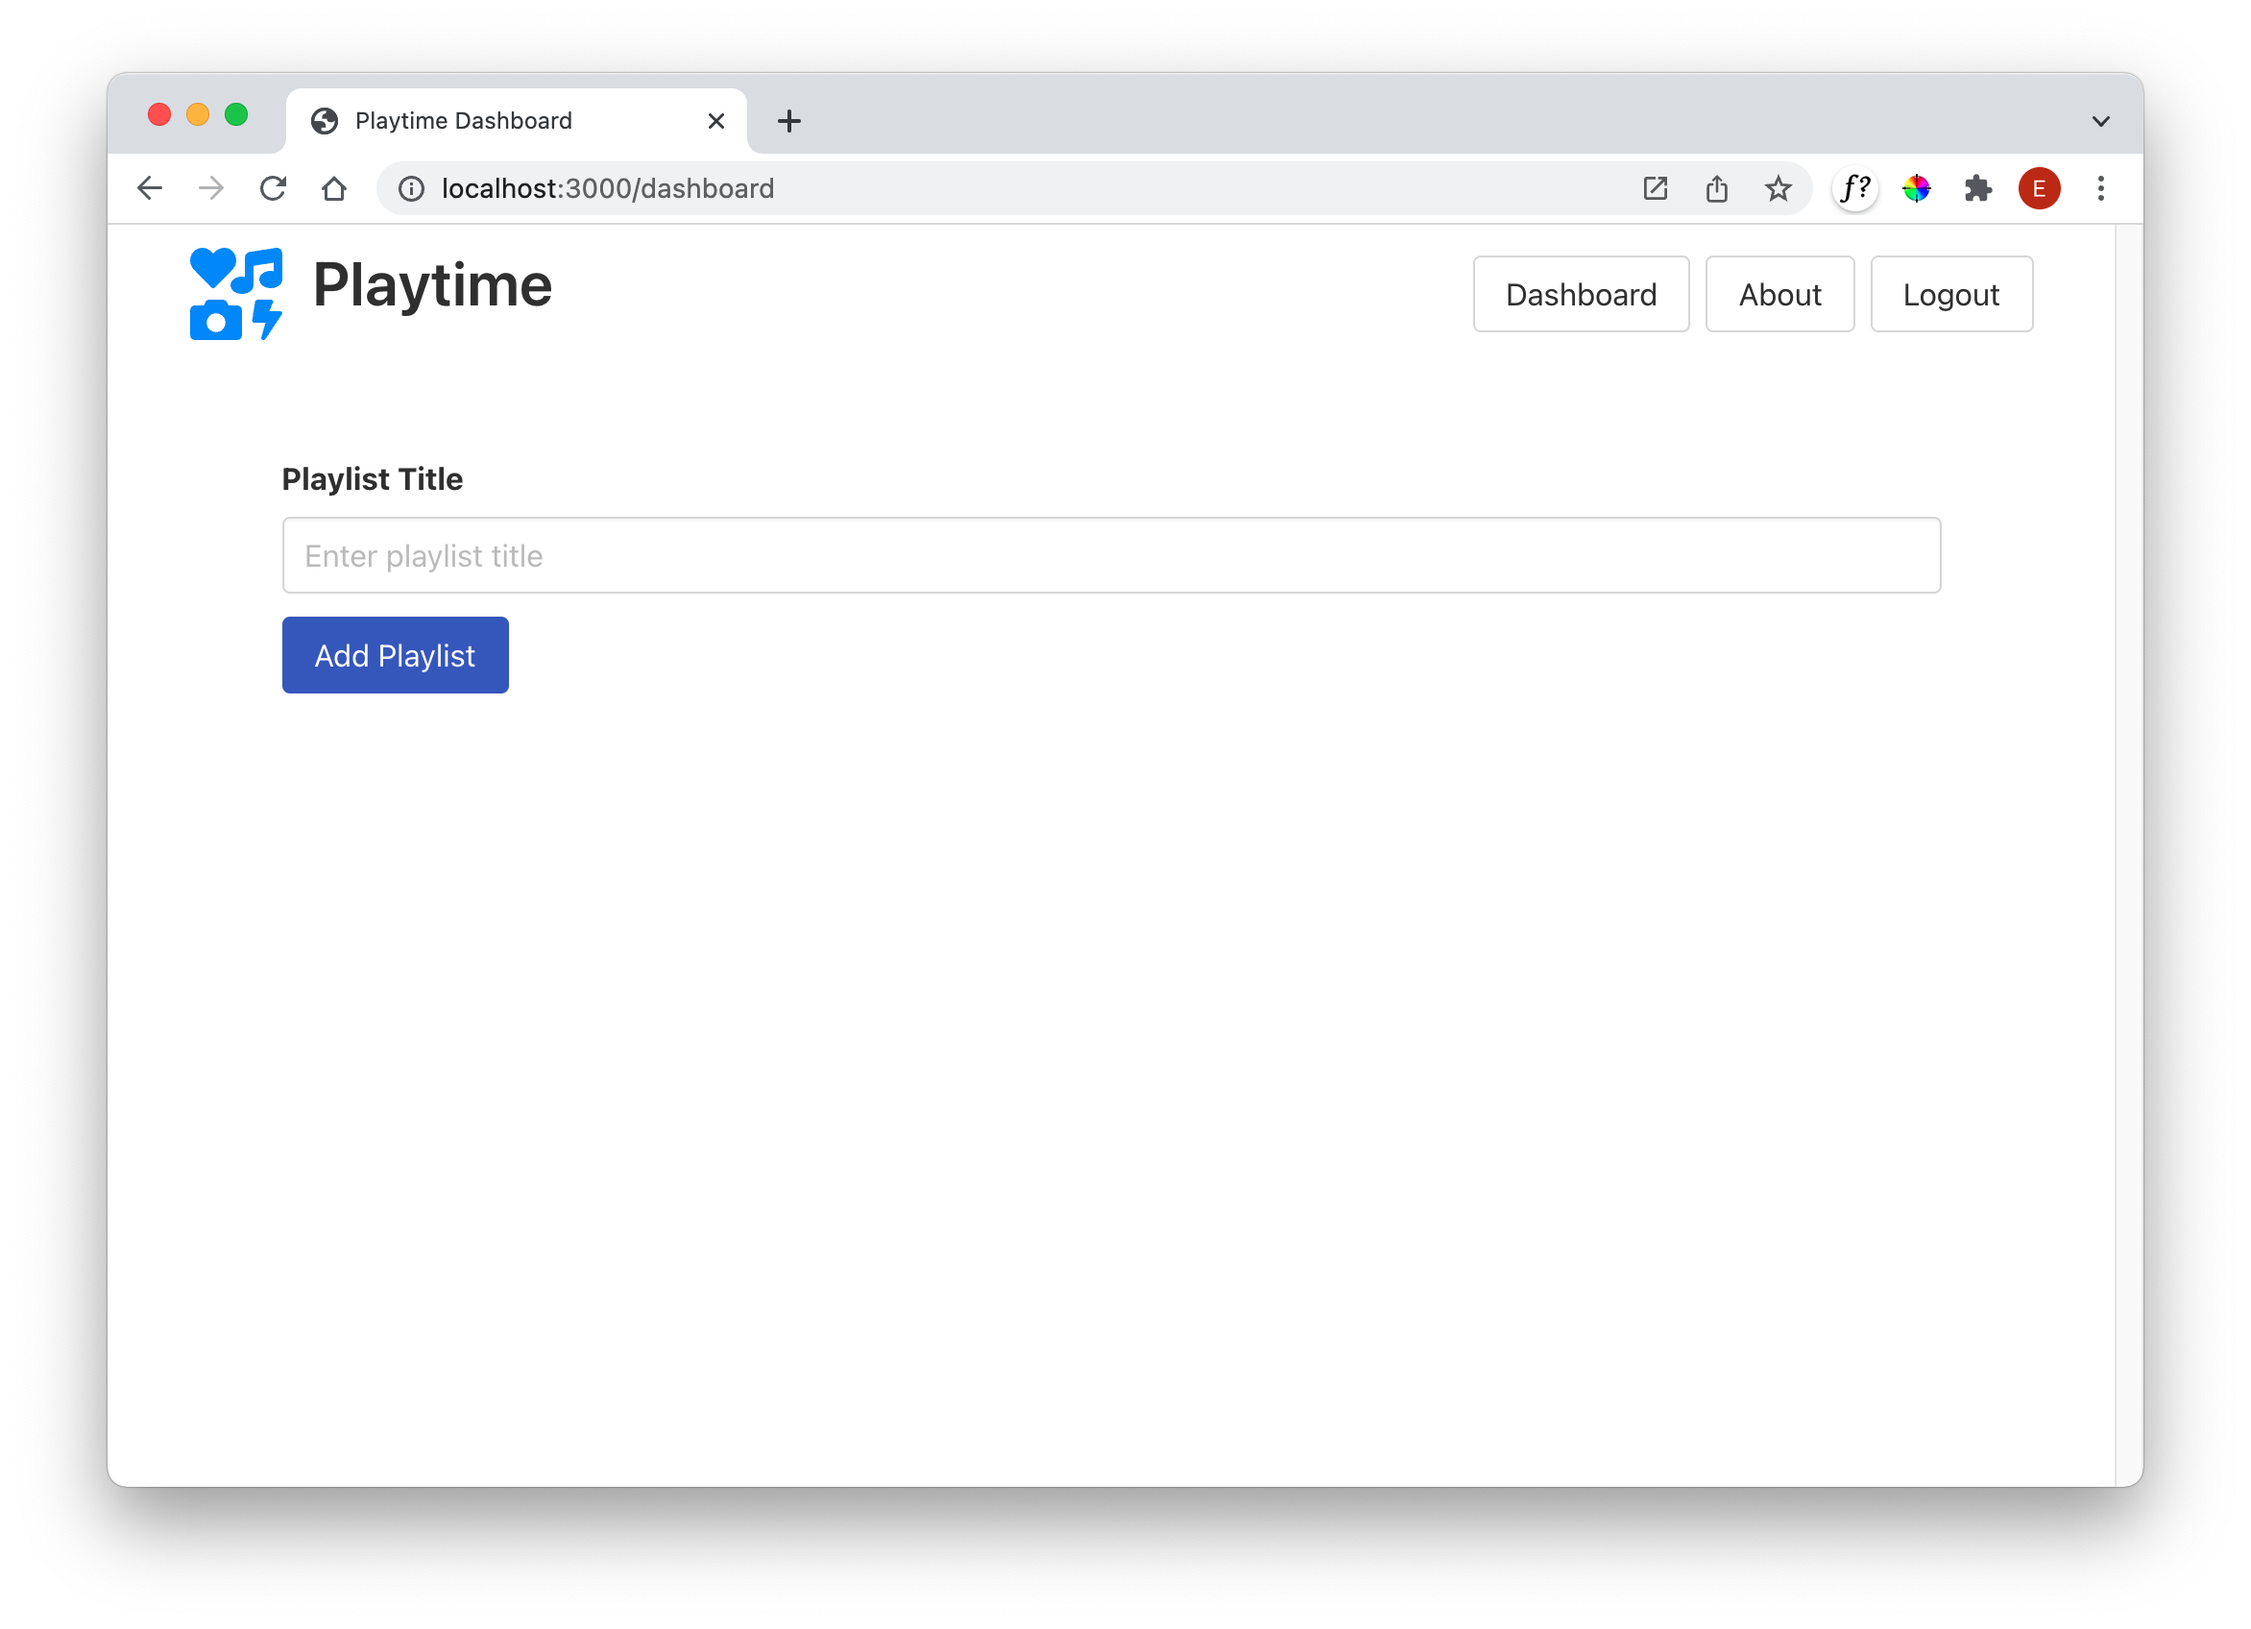
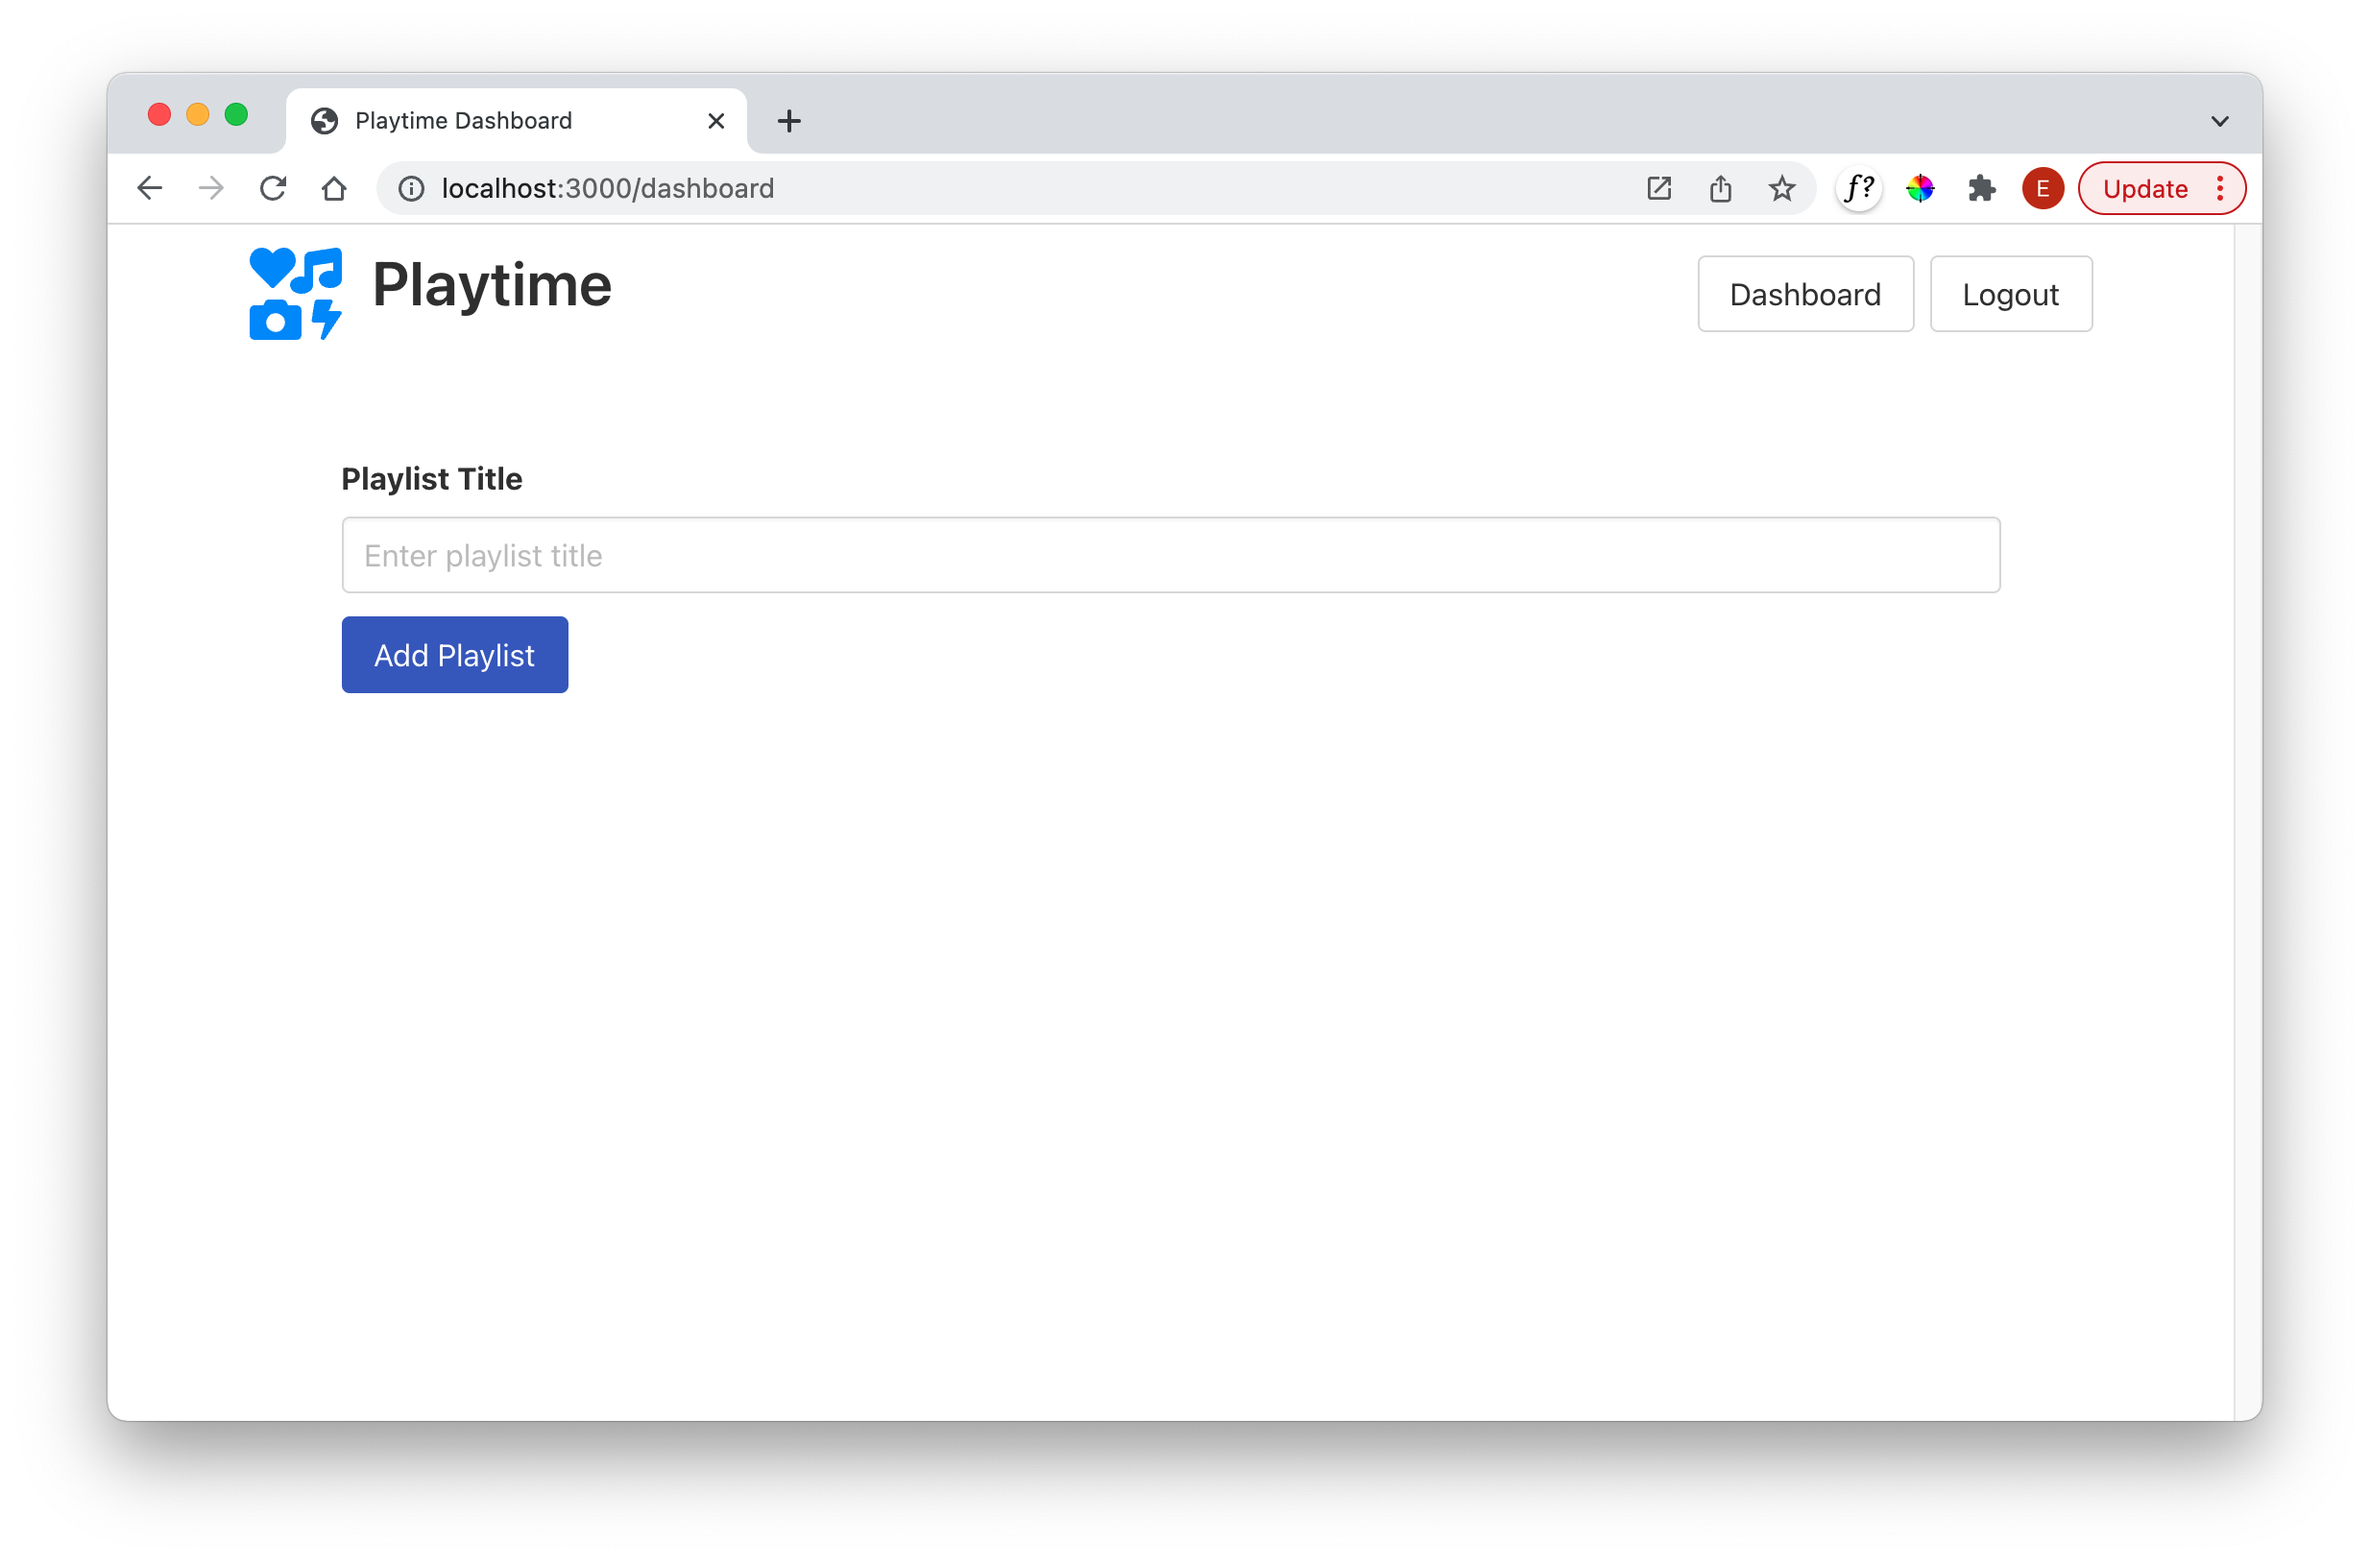
playtime-0.2.0 updated for 2023

Changed region(s): [[0.0311, 0.0307, 0.9654, 0.9214], [0.1246, 0.2764, 0.2491, 0.4607]]

diff --git a/topic-labs/book-playtime-0-1-0/08.08.md b/topic-labs/book-playtime-0-1-0/08.08.md
@@ -38,8 +38,8 @@ Include the partials below in this structure:
     <div class="navbar-end">
       <div class="navbar-item">
         <div class="buttons">
-          <a id="dashboard" class="button" href="/dashboard"> Dashboard </a> <a id="about" class="button" href="/about"> About </a> <a id="logout" class="button" href="/logout">
-          Logout </a>
+          <a id="dashboard" class="button" href="/dashboard"> Dashboard </a>
+          <a id="logout" class="button" href="/logout"> Logout </a>
         </div>
       </div>
     </div>

diff --git a/topic-labs/book-playtime-0-1-0/04.04.md b/topic-labs/book-playtime-0-1-0/04.04.md
@@ -31,7 +31,7 @@ These are the contents of each of these files:
     <meta charset="utf-8">
     <meta name="viewport" content="width=device-width, initial-scale=1">
     <title>{{title}}</title>
-    <link rel="stylesheet" href="https://cdn.jsdelivr.net/npm/bulma@0.9.3/css/bulma.min.css">
+    <link rel="stylesheet" href="https://cdn.jsdelivr.net/npm/bulma@0.9.4/css/bulma.min.css">
     <script src="https://use.fontawesome.com/releases/v5.15.4/js/all.js"></script>
   </head>
   <body>

diff --git a/topic-labs/book-playtime-0-1-0/02.02.md b/topic-labs/book-playtime-0-1-0/02.02.md
@@ -42,11 +42,11 @@ The above will install these packages to the `node_modules` folder, and extend `
   "author": "",
   "license": "ISC",
   "devDependencies": {
-    "eslint": "^8.4.1",
+    "eslint": "^8.31.0",
     "eslint-config-airbnb-base": "^15.0.0",
-    "eslint-config-prettier": "^8.3.0",
-    "eslint-plugin-import": "^2.25.3",
-    "prettier": "^2.5.1"
+    "eslint-config-prettier": "^8.6.0",
+    "eslint-plugin-import": "^2.26.0",
+    "prettier": "^2.8.2"
   }
 }
 ~~~

diff --git a/topic-labs/book-playtime-0-1-0/01.01.md b/topic-labs/book-playtime-0-1-0/01.01.md
@@ -13,7 +13,7 @@ node -v
 It may report something like this:
 
 ~~~bash
-v16.13.x
+v18.13.0
 ~~~
 
 To start a project, create a folder - call it `playtime`, open a shell inside the new folder and enter:

diff --git a/topic-labs/book-playtime-0-1-0/03.03.md b/topic-labs/book-playtime-0-1-0/03.03.md
@@ -63,7 +63,7 @@ Change `package.json` to:
     "prettier": "^2.5.1"
   },
   "dependencies": {
-    "@hapi/hapi": "^20.2.1"
+    "@hapi/hapi": "^21.1.0",
   }
 }
 ~~~

diff --git a/topic-labs/book-playtime-0-1-0/00.Lab-01-Playtime-0-1-0.md b/topic-labs/book-playtime-0-1-0/00.Lab-01-Playtime-0-1-0.md
@@ -1,0 +1,4 @@
+# Objectives
+
+First version of Playtime, implementing user signup  + simple global playlists
+
